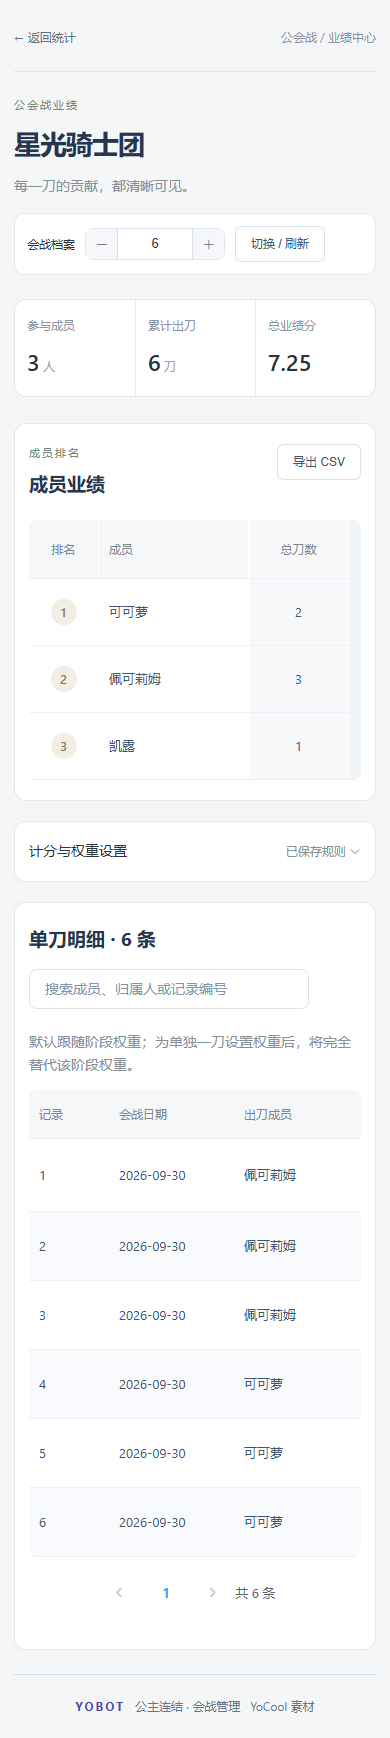
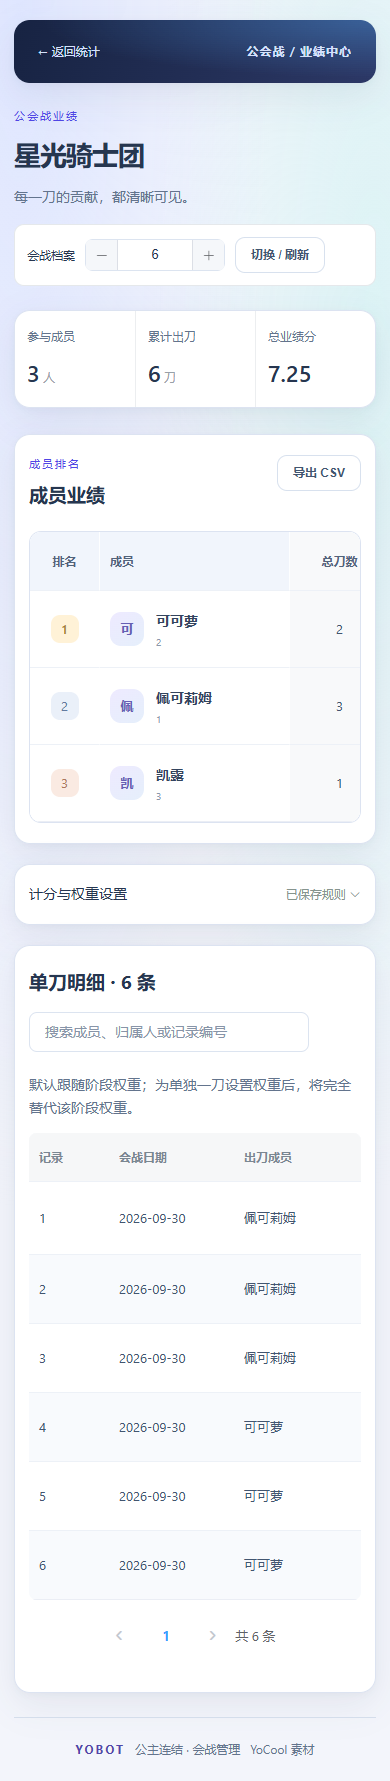
style: unify performance page with shared theme and refine ranking

diff --git a/src/client/public/static/clan/statistics/performance.css b/src/client/public/static/clan/statistics/performance.css
@@ -1,28 +1,28 @@
 /* Scoped editorial layout for the performance dashboard. */
 [v-cloak] { display: none; }
-.yobot-ui body.ui-performance { background: #f5f6f8; color: #283440; text-align: left; }
+.yobot-ui body.ui-performance { background: transparent; color: var(--font-color); text-align: left; }
 .yobot-ui .ui-performance #app { max-width: 1320px; }
 .ui-performance header, .ui-performance .heading, .ui-performance .section-heading,
 .ui-performance .archive, .ui-performance .actions, .ui-performance .threshold {
   display: flex; align-items: center; gap: 16px; flex-wrap: wrap;
 }
 .ui-performance header, .ui-performance .heading, .ui-performance .section-heading { justify-content: space-between; }
-.ui-performance header { padding: 8px 0 24px; border-bottom: 1px solid #e2e5e9; color: #89929c; font-size: 12px; }
-.yobot-ui .ui-performance header a { color: #607080; }
+.ui-performance header { padding: 22px 24px; border-radius: 16px; background: radial-gradient(ellipse at 100% 0%, rgba(70, 131, 196, .55), transparent 65%), linear-gradient(110deg, #172342, #2c3866); box-shadow: var(--ui-shadow); color: #d5e1fb; font-size: 12px; }
+.yobot-ui .ui-performance header a { color: #d5e1fb; }
 .ui-performance .heading { padding: 36px 0 30px; }
 .ui-performance .heading h1 { font-size: 34px; letter-spacing: -1px; margin: 8px 0 10px; font-weight: 650; }
-.yobot-ui .ui-performance p { color: #85909a; }
+.yobot-ui .ui-performance p { color: var(--ui-muted); }
 .ui-performance .heading p { margin: 0; }
-.yobot-ui .ui-performance .eyebrow { font-size: 11px; letter-spacing: 2px; color: #718680; margin: 0 0 6px; }
+.yobot-ui .ui-performance .eyebrow { font-size: 11px; letter-spacing: 2px; color: var(--ui-accent); margin: 0 0 6px; }
 .ui-performance h2 { font-size: 19px; margin: 0; font-weight: 650; }
 .ui-performance .archive { padding: 12px 16px; background: #fff; border: 1px solid #e5e8eb; border-radius: 10px; font-size: 12px; }
-.ui-performance .performance-metrics { display: grid; grid-template-columns: repeat(3, 1fr); border: 1px solid #e2e6e9; border-radius: 12px; background: white; margin-bottom: 26px; }
+.ui-performance .performance-metrics { display: grid; grid-template-columns: repeat(3, 1fr); border: 1px solid var(--ui-border); border-radius: 16px; box-shadow: var(--ui-shadow); background: white; margin-bottom: 26px; }
 .performance-metrics > div { padding: 22px 26px; }
 .performance-metrics > div + div { border-left: 1px solid #eceef0; }
-.performance-metrics span { display: block; color: #8a949e; font-size: 12px; margin-bottom: 8px; }
+.performance-metrics span { display: block; color: var(--ui-muted); font-size: 12px; margin-bottom: 8px; }
 .performance-metrics strong { font-size: 30px; font-weight: 550; font-variant-numeric: tabular-nums; }
 .performance-metrics small { font-size: 12px; color: #98a0a8; font-weight: 400; }
-.ui-performance section { padding: 26px; background: #fff; border: 1px solid #e3e7ea; border-radius: 12px; margin: 20px 0; }
+.ui-performance section { padding: 26px; background: #fff; border: 1px solid var(--ui-border); border-radius: 16px; box-shadow: var(--ui-shadow); margin: 20px 0; }
 .ui-performance .section-heading { margin-bottom: 22px; }
 .ui-performance .section-heading > div { min-width: 0; max-width: 100%; }
 .ui-performance .section-heading p { max-width: 900px; }
@@ -33,21 +33,19 @@
 .ui-performance .actions { margin-top: 20px; gap: 12px; }
 .ui-performance .actions .el-button + .el-button { margin-left: 0; }
 .ui-performance .search { width: 280px; max-width: 100%; }
-.yobot-ui .ui-performance .el-button { border-radius: 7px; font-weight: 400; }
-.yobot-ui .ui-performance .el-button--primary { background: #365d53; border-color: #365d53; box-shadow: none; }
 .yobot-ui .ui-performance .el-table { box-shadow: none; border: 0; border-radius: 8px; font-size: 13px; }
-.yobot-ui .ui-performance .el-table th { background: #f6f7f8; color: #7a8792; font-size: 12px; font-weight: 500; }
+.yobot-ui .ui-performance .el-table th { background: #f6f7f8; color: #7a8792; font-size: 12px; font-weight: 600; }
 .yobot-ui .ui-performance .el-table td { padding: 16px 0; font-variant-numeric: tabular-nums; }
 .yobot-ui .ui-performance .performance-ranking.el-table .total-count { background: #f8f9fa; }
 .yobot-ui .ui-performance .performance-ranking.el-table .stage-tone-0 { background: #f0f5fa; }
 .yobot-ui .ui-performance .performance-ranking.el-table .stage-tone-1 { background: #f0f6f3; }
 .yobot-ui .ui-performance .performance-ranking.el-table .stage-tone-2 { background: #f5f2f8; }
-.yobot-ui .ui-performance .performance-ranking.el-table .total-score { background: #edf4f1; color: #365d53; }
-.ui-performance .performance-ranking td, .ui-performance .performance-ranking th { border-right: 1px solid #fff; }
-.ui-performance .score-pill { display: inline-block; padding: 5px 14px; border-radius: 6px; background: #dfece5; font-size: 15px; font-weight: 650; }
+.yobot-ui .ui-performance .performance-ranking.el-table .total-score { background: #efedff; color: #5146aa; }
+.ui-performance .performance-ranking td, .ui-performance .performance-ranking th { border-right: 1px solid rgba(255,255,255,.85); }
+.ui-performance .score-pill { display: inline-block; padding: 5px 14px; border-radius: 6px; background: #e4dfff; font-size: 15px; font-weight: 650; }
 .ui-performance .rank-badge { display: inline-flex; align-items: center; justify-content: center; width: 26px; height: 26px; color: #8f9aa4; }
 .ui-performance .rank-top { border-radius: 50%; background: #f2eee4; color: #947b4c; font-weight: 600; }
-.ui-performance .rules-panel { background: white; border: 1px solid #e3e7ea; border-radius: 12px; margin: 20px 0; }
+.ui-performance .rules-panel { background: white; border: 1px solid var(--ui-border); border-radius: 16px; box-shadow: var(--ui-shadow); margin: 20px 0; }
 .ui-performance .rules-panel summary { padding: 20px 26px; cursor: pointer; display: flex; align-items: center; justify-content: space-between; gap: 12px; font-size: 14px; }
 .ui-performance .rules-panel summary::-webkit-details-marker { display: none; }
 .ui-performance .rules-state { color: #86948e; font-size: 12px; }
@@ -65,3 +63,23 @@
   .ui-performance .actions .el-button { flex: 1 1 130px; }
   .ui-performance .rules-panel summary { padding: 18px 14px; }
 }
+
+/* Ranking typography and stage colors build on the PR #2 theme. */
+.yobot-ui .ui-performance .performance-ranking.el-table { border: 1px solid var(--ui-border); border-radius: 12px; }
+.yobot-ui .ui-performance .performance-ranking.el-table td { padding: 18px 0; }
+.yobot-ui .ui-performance .performance-ranking.el-table th { height: 54px; color: #52637b; background: #f1f5fc; }
+.yobot-ui .ui-performance .performance-ranking.el-table th.stage-tone-0 { background: #e8f0fc; }
+.yobot-ui .ui-performance .performance-ranking.el-table th.stage-tone-1 { background: #e8f3ee; }
+.yobot-ui .ui-performance .performance-ranking.el-table th.stage-tone-2 { background: #eee9f8; }
+.yobot-ui .ui-performance .performance-ranking.el-table th.total-score { background: #e5e0fb; }
+.ui-performance .member-identity { display: flex; gap: 12px; align-items: center; text-align: left; }
+.ui-performance .member-avatar { flex: 0 0 34px; height: 34px; display: inline-flex; align-items: center; justify-content: center; border-radius: 11px; background: linear-gradient(140deg, #eeeaff, #e5effb); color: #6660b4; font-weight: 600; }
+.ui-performance .member-name { display: block; font-size: 14px; font-weight: 550; color: #33445e; word-break: break-word; }
+.ui-performance .member-id { display: block; font-size: 10px; color: #8a97ab; margin-top: 2px; line-height: 1.4; }
+.ui-performance .rank-badge { border-radius: 9px; width: 28px; height: 28px; font-variant-numeric: tabular-nums; }
+.ui-performance .rank-top { background: #fff2d7; color: #a67a2e; }
+.ui-performance .rank-second { background: #eaf0f9; color: #627aa0; }
+.ui-performance .rank-third { background: #faeae2; color: #ad775b; }
+.ui-performance .score-pill { min-width: 60px; padding: 6px 12px; font-size: 16px; border-radius: 8px; }
+.yobot-ui .ui-performance .performance-ranking.el-table .el-table__body tr:hover > td { box-shadow: inset 0 0 0 999px rgba(79,70,229,.025); }
+.ui-performance header span { letter-spacing: 1px; font-weight: 550; }

diff --git a/src/client/public/template/clan/statistics/performance.html b/src/client/public/template/clan/statistics/performance.html
@@ -28,8 +28,8 @@
     <section v-loading="saving || loading"><div class="section-heading"><div><p class="eyebrow">成员排名</p><h2>成员业绩</h2></div><el-button size="small" @click="exportCsv" :disabled="!!validationError">导出 CSV</el-button></div>
       <el-alert v-if="validationError" :title="validationError" type="error" :closable="false"></el-alert>
       <el-table :data="ranking" class="performance-ranking">
-        <el-table-column label="排名" width="70" align="center"><template slot-scope="scope"><span class="rank-badge" :class="{'rank-top': scope.$index < 3}">[[ scope.$index + 1 ]]</span></template></el-table-column>
-        <el-table-column prop="nickname" label="成员" min-width="150"></el-table-column>
+        <el-table-column label="排名" width="70" align="center"><template slot-scope="scope"><span class="rank-badge" :class="{'rank-top': scope.$index === 0, 'rank-second': scope.$index === 1, 'rank-third': scope.$index === 2}">[[ scope.$index + 1 ]]</span></template></el-table-column>
+        <el-table-column prop="nickname" label="成员" min-width="190"><template slot-scope="scope"><div class="member-identity"><span class="member-avatar" aria-hidden="true">[[ String(scope.row.nickname).slice(0, 1) ]]</span><div><span class="member-name">[[ scope.row.nickname ]]</span><span class="member-id">[[ scope.row.qqid ]]</span></div></div></template></el-table-column>
         <el-table-column prop="total_blades" label="总刀数" min-width="100" align="center" class-name="total-count"></el-table-column>
         <el-table-column v-for="(label, index) in stageLabels" :key="'count-' + label" :label="label + '阶段'" min-width="100" align="center" :class-name="'stage-tone-' + (index % 3)"><template slot-scope="scope">[[ scope.row.stage_blades[index] ]]</template></el-table-column>
         <el-table-column v-for="(label, index) in stageLabels" :key="'score-' + label" :label="label + '得分'" min-width="100" align="center" :class-name="'stage-tone-' + (index % 3)"><template slot-scope="scope">[[ number(scope.row.stage_scores[index]) ]]</template></el-table-column>
